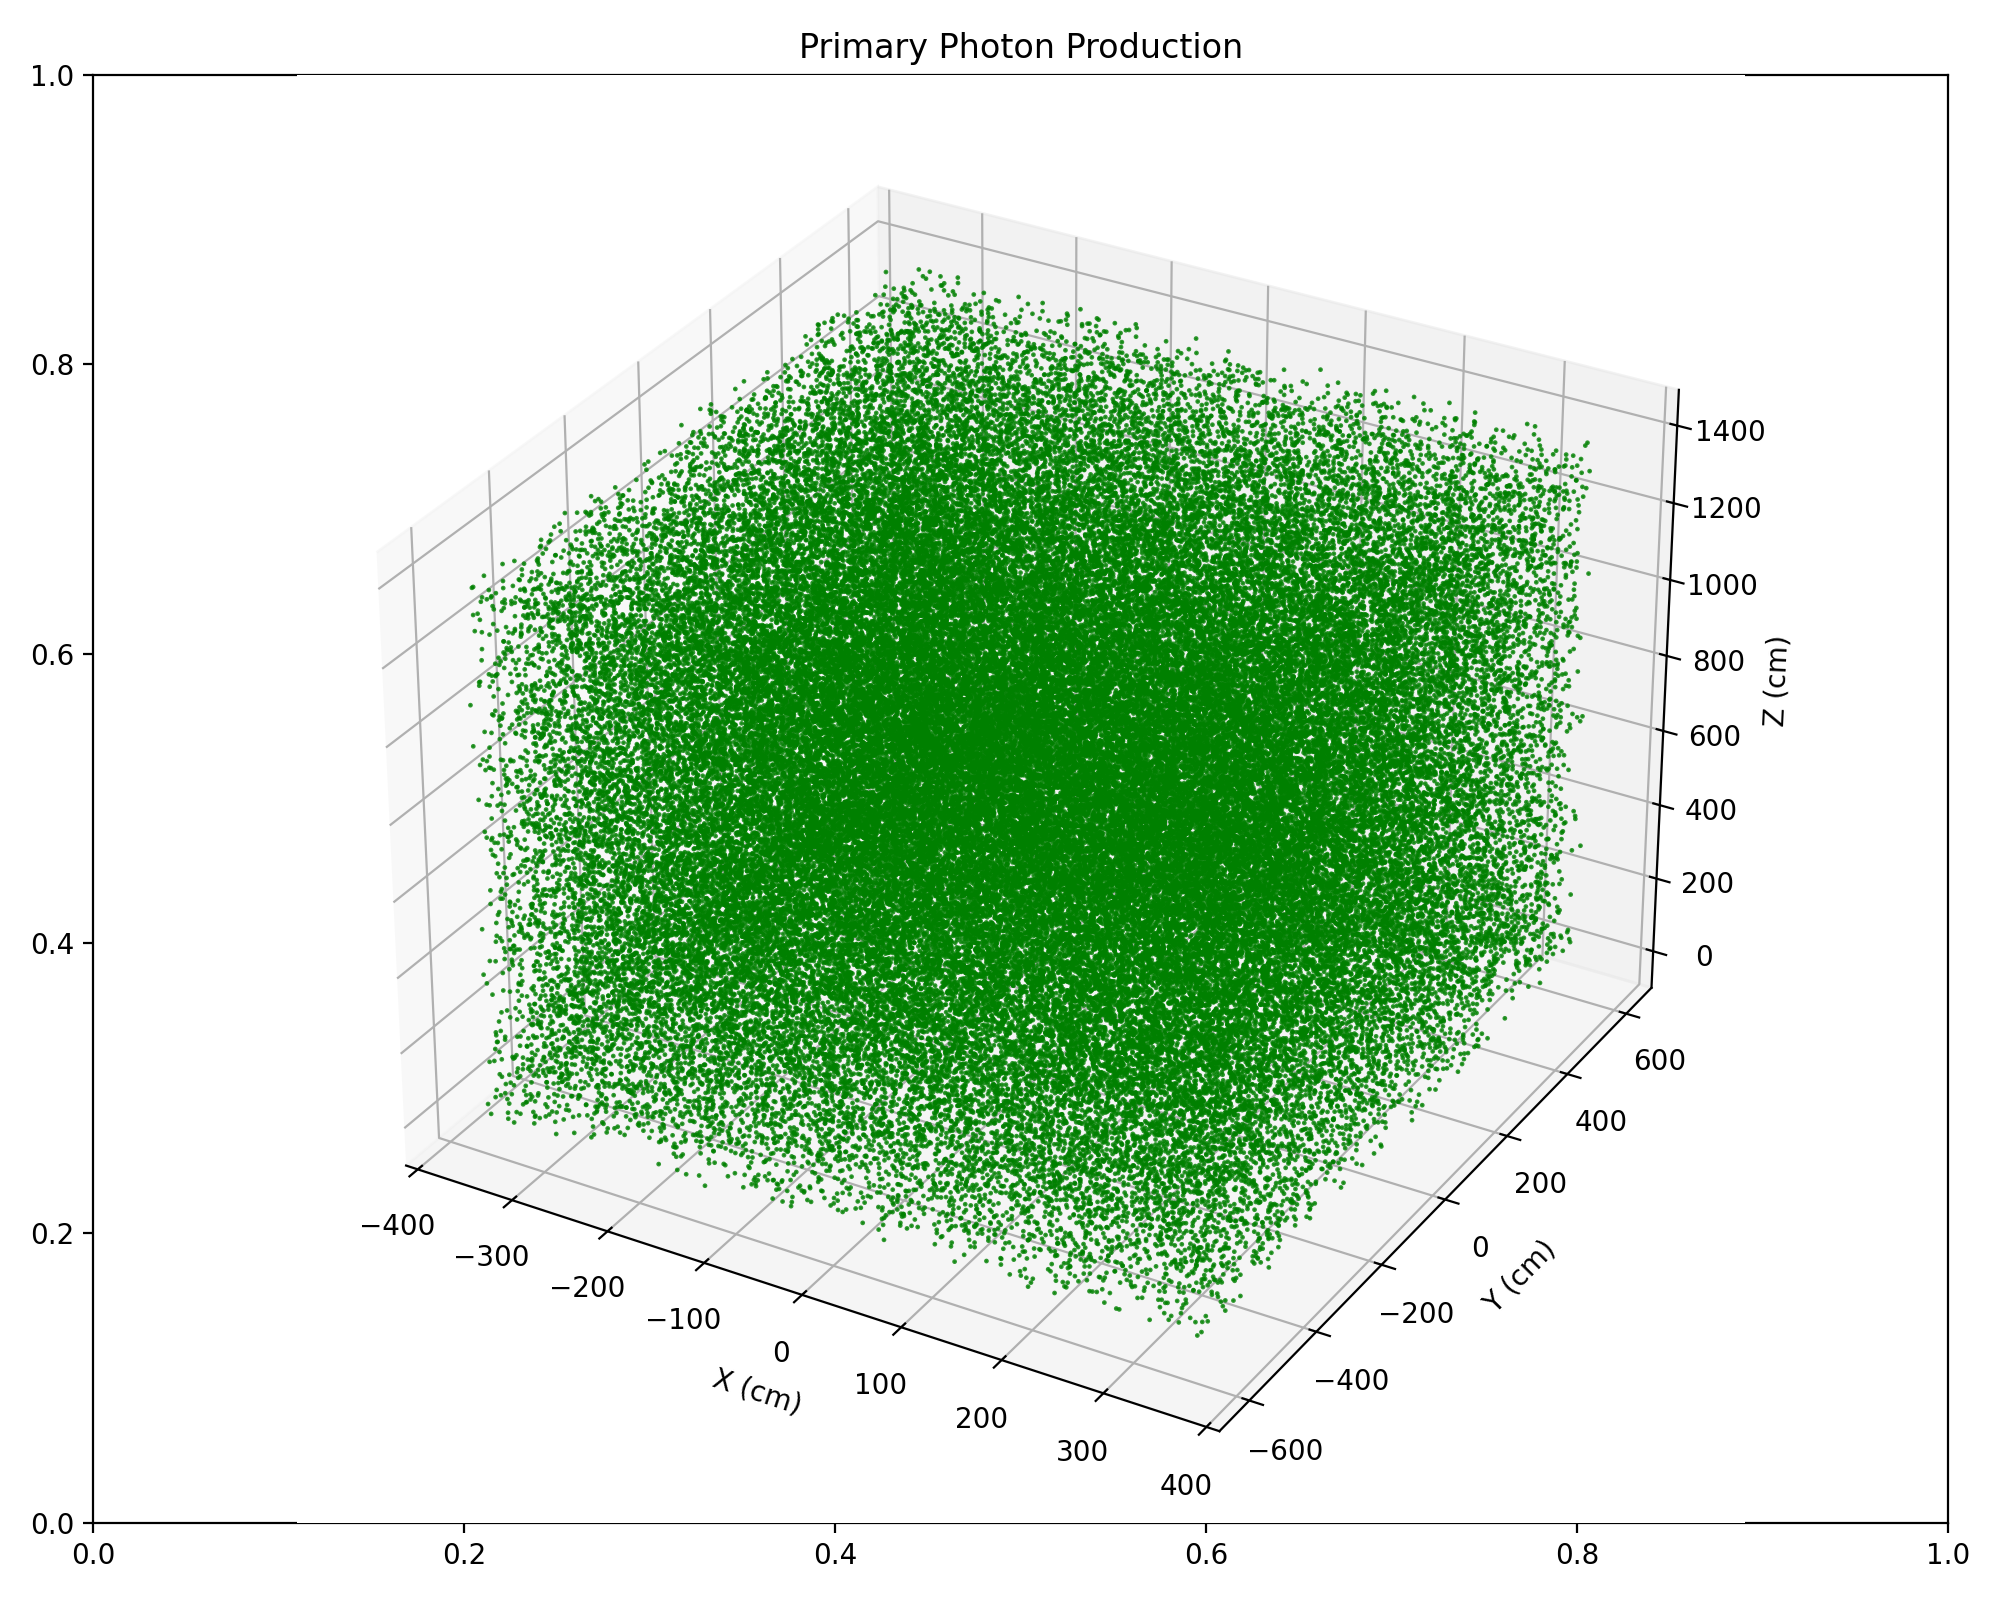
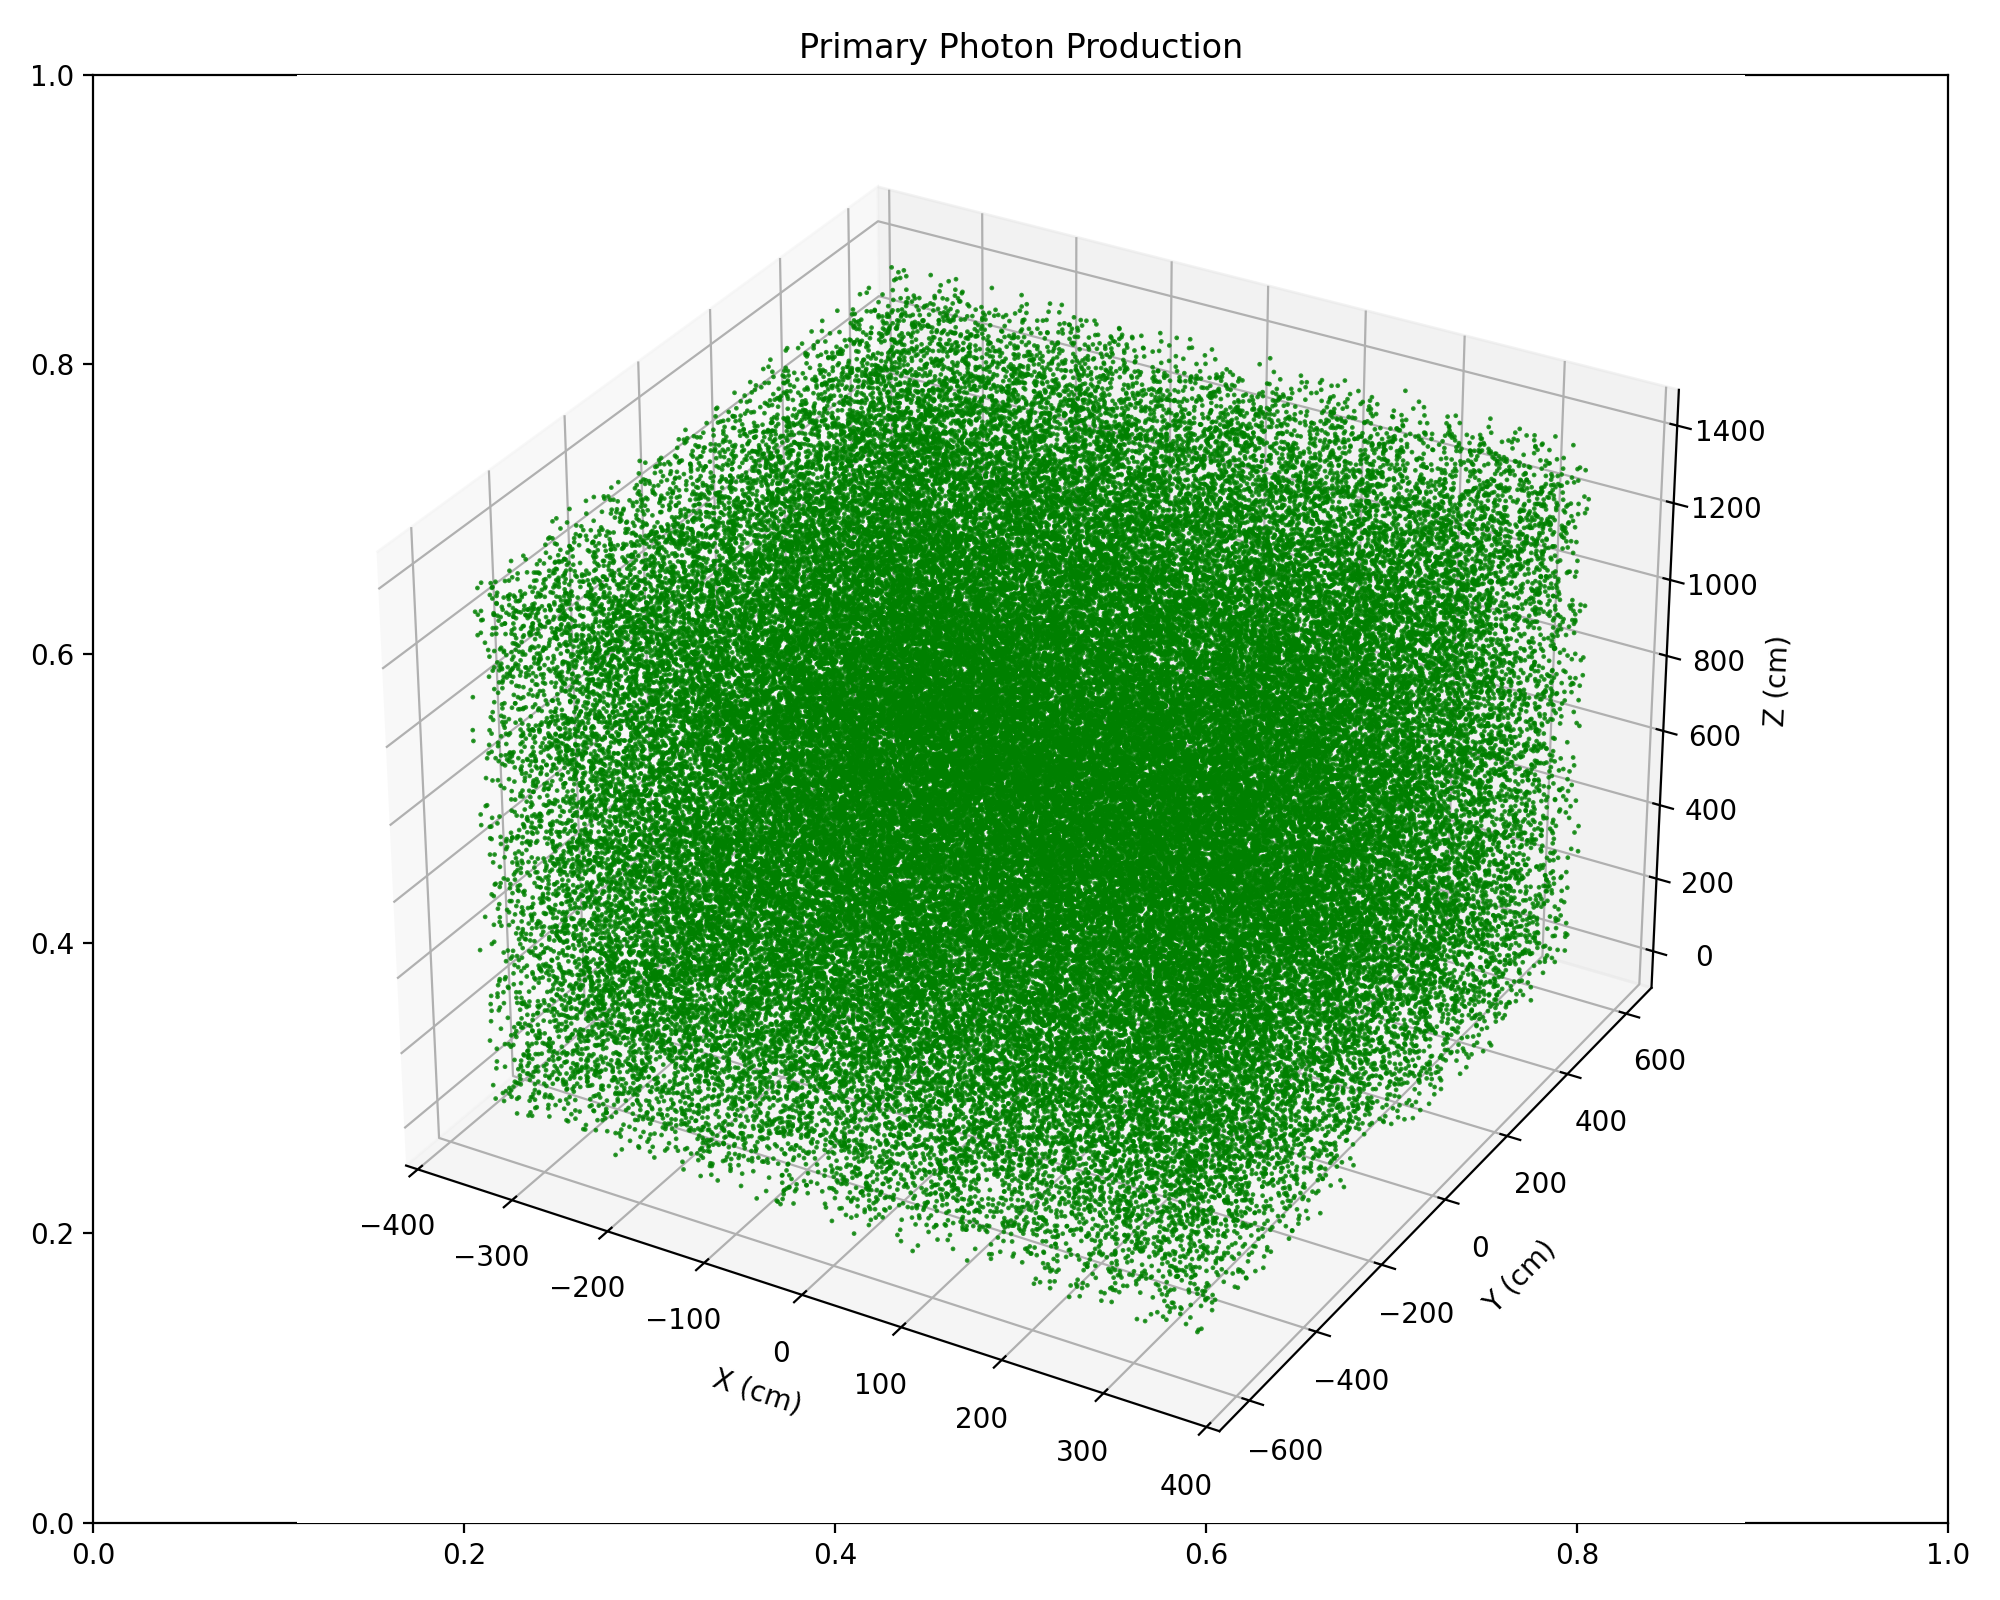
Fixing a bug

Changed region(s): [[0.217, 0.1562, 0.806, 0.8438]]

diff --git a/laropticks/source/OpticksInterface.cc b/laropticks/source/OpticksInterface.cc
@@ -255,7 +255,7 @@ namespace laropticks{
 	void OpticksInterface::beginJob()
 	{
         mf::LogTrace("OpticksInterface::beginJob") << " Opticks Initialization";
-		 mf::LogInfo ("OpticksInterface") << "Begin Job" << std::endl;
+		 //mf::LogInfo ("OpticksInterface") << "Begin Job" << std::endl;
         // Initialize the variables
 
 		// initialize the parser
@@ -310,9 +310,9 @@ namespace laropticks{
     OpticksInterface::UPVecBTR OpticksInterface::executeEvent(VecSED const& edeps)
     {
 		if(Trackmps==nullptr) initTracks();
-		 mf::LogInfo ("OpticksInterface") << "OpticksInterface::executeEvent" << std::endl;
+		//mf::LogInfo ("OpticksInterface") << "OpticksInterface::executeEvent" << std::endl;
 
-        mf::LogTrace("OpticksInterface::executeEvent") << "Using Opticks tool";
+        //mf::LogTrace("OpticksInterface::executeEvent") << "Using Opticks tool";
 		// Optical Back Tracker
 
 
@@ -468,7 +468,11 @@ namespace laropticks{
 
 
 	    //Opticks Hits
-        analysisManager->initOpticksHitTree();
+  		if (IsSavePhotons())
+  		{
+  			analysisManager->initOpticksHitTree();
+  		}
+
 
 
 		//Initial Particle Info
@@ -485,9 +489,9 @@ namespace laropticks{
 
 }
 	void OpticksInterface::initTracks(){
-		 mf::LogInfo ("OpticksInterface") << "OpticksInterface::initTracks" << std::endl;
-		 mf::LogInfo ("OpticksInterface") << "Setting up Tracks" << std::endl;
-		 mf::LogInfo ("OpticksInterface") << "Amount of Particles " << fParticleList->size()<< std::endl; ;
+		 //mf::LogInfo ("OpticksInterface") << "OpticksInterface::initTracks" << std::endl;
+		 //mf::LogInfo ("OpticksInterface") << "Setting up Tracks" << std::endl;
+		 //mf::LogInfo ("OpticksInterface") << "Amount of Particles " << fParticleList->size()<< std::endl; ;
 
 		Trackmps = new std::map<int, G4Track*>();
 		// Pre-allocate vectors to avoid repeated allocations

diff --git a/laropticks/include/AnalysisManagerHelper.h b/laropticks/include/AnalysisManagerHelper.h
@@ -42,6 +42,7 @@ class AnalysisManagerHelper
             if(instance== nullptr)
             {
                 instance = new AnalysisManagerHelper();
+
             }
             return instance;
         }
@@ -80,14 +81,20 @@ class AnalysisManagerHelper
         void initIonAndScintGenTree();
         void setFileService(art::TFileService * fs);
 
-
+        TTree * getOpticksHitTree();
         void FillHitTree(laropticks::OpticksHit &hit);
         void FillVoxelTree(laropticks::Visibility &vis);
         void FillPhotonGenTree(int &evtid, G4LorentzVector &pos,G4ThreeVector &mom,G4ThreeVector &pol,double wavelength, double &energy);
         void FillEdepTree(int &evtid, G4LorentzVector &pos, int trkid, int pdg, int nphot, int nelect);
         ~AnalysisManagerHelper();
     private:
-        AnalysisManagerHelper(){};
+        AnalysisManagerHelper()
+        {
+             TTree * fVisTTree=nullptr;
+             TTree * fPhotonGenTTree=nullptr;
+             TTree * fOpticksHitTTree=nullptr;
+             TTree * fSimEdepGenTTree=nullptr;
+        };
 
         static G4Mutex mtx;
         static AnalysisManagerHelper* instance;
@@ -107,11 +114,14 @@ class AnalysisManagerHelper
         laropticks::PhotonGen fPhotonGenBranch;
         laropticks::SimEdeps fSimEdepsGenBranch;
         art::TFileService *fTFileService;
-
   };
     inline void AnalysisManagerHelper::setFileService(art::TFileService * fs){
         fTFileService=fs;
     }
+     inline TTree * AnalysisManagerHelper::getOpticksHitTree(){
+        return fOpticksHitTTree;
+    }
+
 
 }
 #endif //GDMLOPTICKS_ANALYSISMANAGERHELPER_HH

diff --git a/laropticks/source/OpticksHitHandler.cc b/laropticks/source/OpticksHitHandler.cc
@@ -10,7 +10,7 @@ namespace laropticks{
   OpticksHitHandler * OpticksHitHandler::instance = nullptr;
 
   OpticksHitHandler::~OpticksHitHandler(){
-		mf::LogInfo("OpticksHitHandler") << "[OpticksHitHandler::~OpticksHitHandler] Destroying OpticksHitHandler instance" << std::endl;
+		//mf::LogInfo("OpticksHitHandler") << "[OpticksHitHandler::~OpticksHitHandler] Destroying OpticksHitHandler instance" << std::endl;
 		// Clear the hits
 		hits.clear();
 		hits.shrink_to_fit();
@@ -18,7 +18,7 @@ namespace laropticks{
   void OpticksHitHandler::CollectHits(int eventID,std::map<int, sim::OBTRHelper> &obtrHelpers) {
 
       //Collecting Opticks Photons
-  	  mf::LogInfo("OpticksHitHandler") << "[OpticksHitHandler::CollectHits] Collecting Hits from GPU ...." << std::endl;
+  	  //mf::LogInfo("OpticksHitHandler") << "[OpticksHitHandler::CollectHits] Collecting Hits from GPU ...." << std::endl;
 
 	  // --- Get Hits ----
       SEvt* sev             = SEvt::Get_EGPU();
@@ -74,10 +74,14 @@ namespace laropticks{
   void OpticksHitHandler::SaveHits(){
 
       AnalysisManagerHelper * anaHelper= AnalysisManagerHelper::getInstance();
-       mf::LogInfo("OpticksHitHandler") << "[OpticksHitHandler::SaveHits] Saving GPU Hits ..." << std::endl;
-      for (auto it : hits){
-          anaHelper->FillHitTree(it);
+      if (anaHelper->getOpticksHitTree()!=nullptr)
+      {
+      	 // mf::LogInfo("OpticksHitHandler") << "[OpticksHitHandler::SaveHits] Saving GPU Hits ..." << std::endl;
+	      for (auto it : hits){
+          	anaHelper->FillHitTree(it);
+      	 }
       }
+
 
      // Handle Hits Here
      hits.clear();
@@ -90,7 +94,7 @@ namespace laropticks{
 
 
       AnalysisManagerHelper * anaHelper= AnalysisManagerHelper::getInstance();
-  	  mf::LogInfo("OpticksHitHandler") << "[OpticksHitHandler::SaveVisibilities] Saving GPU Visibilities ..." << std::endl;
+  	 // mf::LogInfo("OpticksHitHandler") << "[OpticksHitHandler::SaveVisibilities] Saving GPU Visibilities ..." << std::endl;
 
       Visibility fvis;
       for (auto &it : fSensorCounts)

diff --git a/laropticks/include/OpticksHitHandler.h b/laropticks/include/OpticksHitHandler.h
@@ -67,6 +67,7 @@ namespace laropticks {
         void AddPhotons(int value);
         void initSensorCounts(std::map<G4String, G4int>  &DetectorIds);
 		void setVoxelID(int &id);
+
     private:
         OpticksHitHandler(){};
         ~OpticksHitHandler();
@@ -79,6 +80,7 @@ namespace laropticks {
         int PhotonCount=0;
         std::map<int,int> fSensorCounts;
 		int fVoxelID=0;
+
   };
 
   inline void OpticksHitHandler::AddPhotons(int value)

diff --git a/laropticks/source/AnalysisManagerHelper.cc b/laropticks/source/AnalysisManagerHelper.cc
@@ -64,6 +64,7 @@ namespace laropticks {
         OpticksScintPhotons=0;
         G4CerenkovPhotons=0;
         G4ScintPhotons=0;
+
     }
     void AnalysisManagerHelper::SavePhotonInfotoFile()
     {